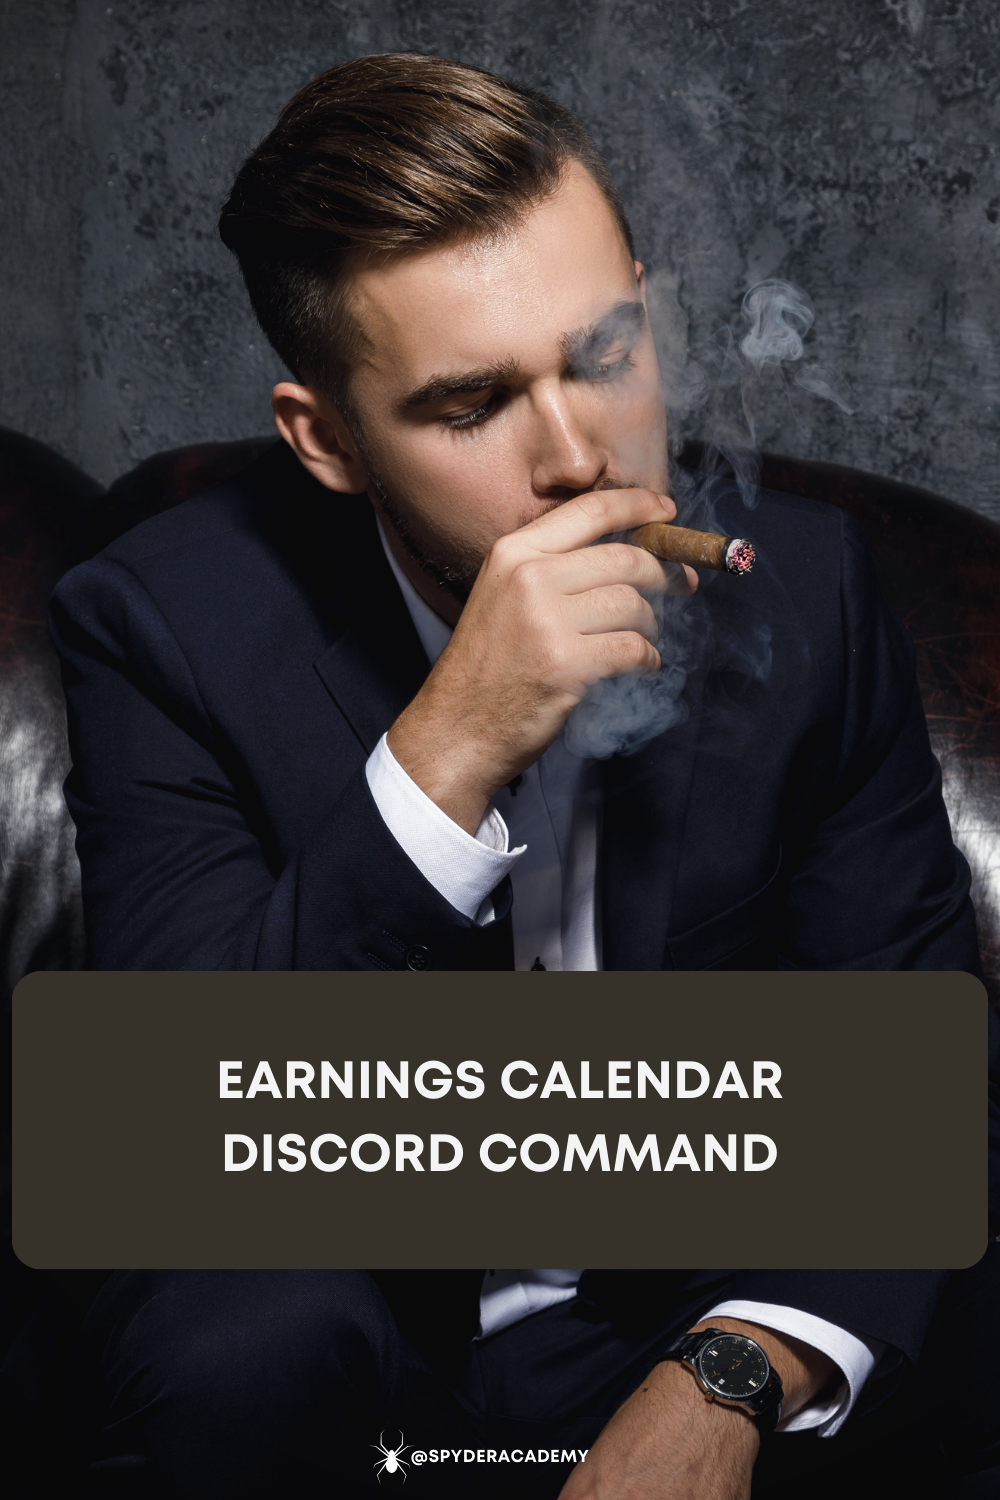
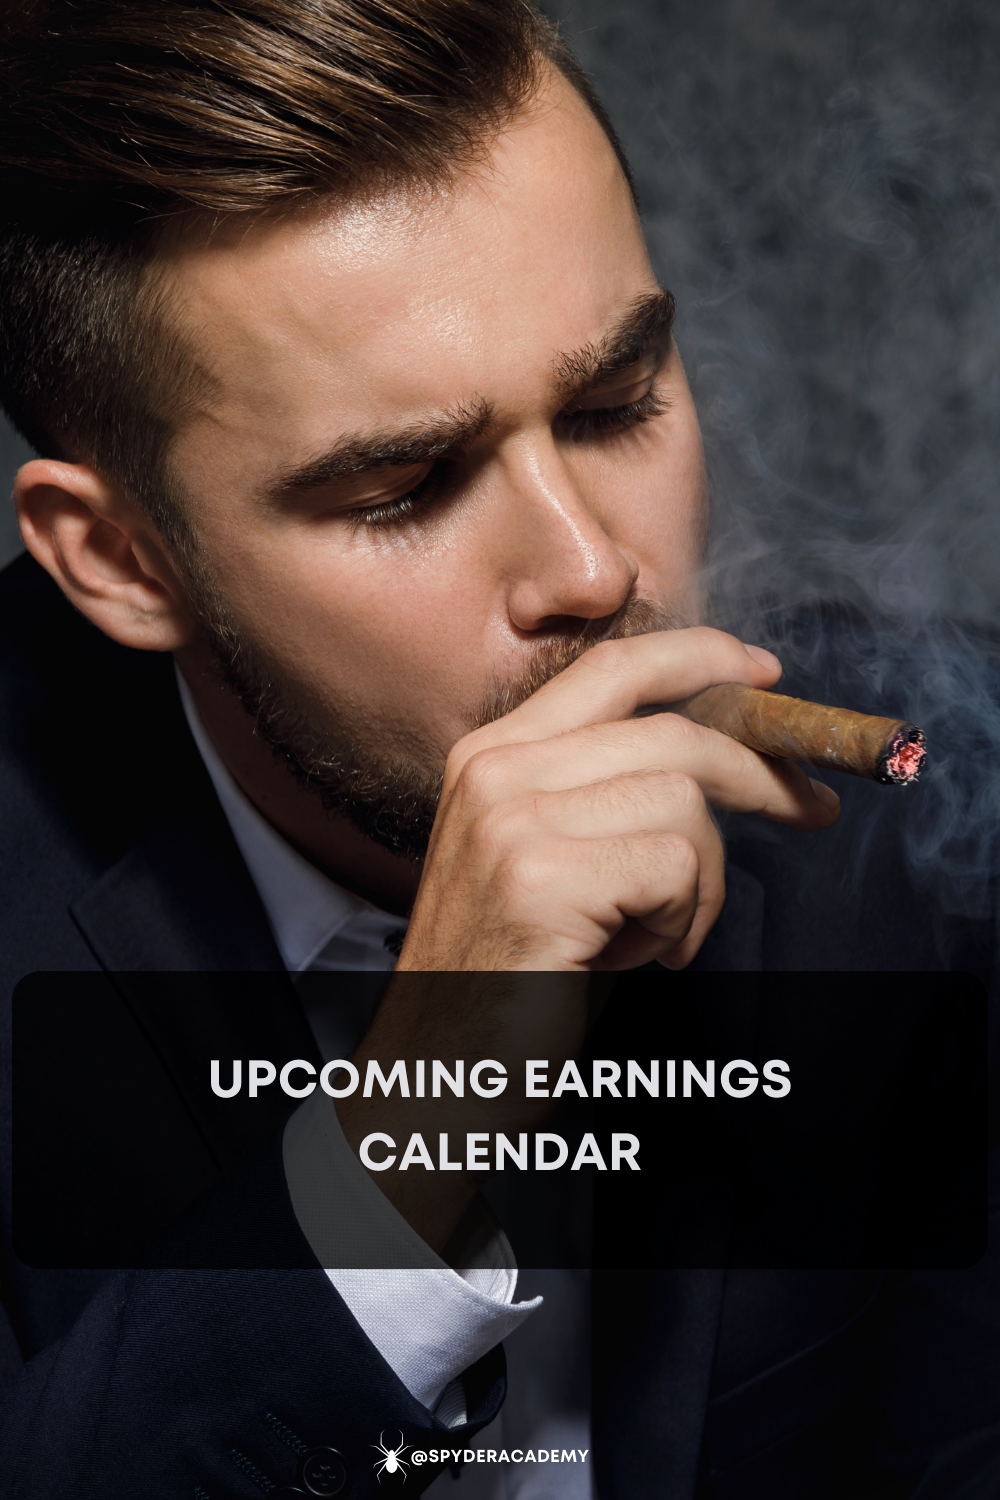
revamped tools landing page

diff --git a/layouts/_default/tools.html b/layouts/_default/tools.html
@@ -1,0 +1,104 @@
+{{ define "main" }}
+  <section class="section blog-list py-5">
+    <div class="container">
+      
+        
+      <div class="row justify-content-center pb-5">
+        <div class="col-12 col-xl-6">
+          {{ with .Title }}
+            <h1 class="fs-1 fw-bold text-center text-primary pb-3">{{ . }}</h1>
+          {{ end }}
+          {{ with .Params.description }}
+            <p class="text-black-61 text-center pb-3">{{ . }}</p>
+          {{ end }}
+        </div>
+      </div>
+
+      
+
+      <div class="row g-4 pb-5">
+        <h2>Free Tools</h2>
+        {{ range (.Paginate .RegularPages).Pages.ByDate }}
+            {{ if in .Params.tags "Web Tools" }}
+                <div class="col-12 col-md-6 col-lg-3">
+                  <a class="card shadow border-0 p-4 text-decoration-none h-100" style="border-radius: 15px;" href="{{ .Permalink }}">
+                    <div class="aspect-ratio-full">
+                          {{ with .Resources.GetMatch (printf "**/%s" "{cover.*}") }}
+                              {{ with .Resize "1000x" }}
+                                  <img class="" src="{{ .RelPermalink }}" alt="{{ .Title }}" width="{{ .Width }}" height="{{ .Height }}">
+                              {{ end }} 
+                          {{ end }}
+                    </div>
+                    <div class="card-body">
+                      <h5 class="card-title fw-semibold">{{ .Title }}</h5>
+                      {{ if eq .Section "education" }}<p class="card-text text-danger">By {{ .Param "author" | plainify }}</p>{{ end }}
+                      {{ if eq .Section "courses" }}<p class="card-text text-danger">{{ .Param "level" | plainify }}</p>{{ end }}
+                      <p class="card-text text-black-61">{{ .Summary }}</p>
+                    </div>
+                  </a>
+                </div>
+            {{ end }}
+          {{ end }}
+      </div>
+
+      <div class="row g-4 pb-5">
+        <h3>Trading View Indicators</h3>
+        {{ range (.Paginate .RegularPages).Pages.ByDate }}
+            {{ if in .Params.tags "TradingView" }}
+              <div class="col-12 col-md-6 col-lg-3">
+                <a class="card shadow border-0 p-4 text-decoration-none h-100" style="border-radius: 15px;" href="{{ .Permalink }}">
+                  <div class="aspect-ratio-full">
+                        {{ with .Resources.GetMatch (printf "**/%s" "{cover.*}") }}
+                            {{ with .Resize "1000x" }}
+                                <img class="" src="{{ .RelPermalink }}" alt="{{ .Title }}" width="{{ .Width }}" height="{{ .Height }}">
+                            {{ end }} 
+                        {{ end }}
+                  </div>
+                  <div class="card-body">
+                    <h5 class="card-title fw-semibold">{{ .Title }}</h5>
+                    {{ if eq .Section "education" }}<p class="card-text text-danger">By {{ .Param "author" | plainify }}</p>{{ end }}
+                    {{ if eq .Section "courses" }}<p class="card-text text-danger">{{ .Param "level" | plainify }}</p>{{ end }}
+                    <p class="card-text text-black-61">{{ .Summary }}</p>
+                  </div>
+                </a>
+              </div>
+            {{ end }}
+          {{ end }}
+      </div>
+
+      <div class="row g-4 pb-5">
+        <h3>Discord Tools</h3>
+        {{ range (.Paginate .RegularPages).Pages.ByDate }}
+            {{ if in .Params.tags "Discord" }}
+                <div class="col-12 col-md-6 col-lg-3">
+                  <a class="card shadow border-0 p-4 text-decoration-none h-100" style="border-radius: 15px;" href="{{ .Permalink }}">
+                    <div class="aspect-ratio-full">
+                          {{ with .Resources.GetMatch (printf "**/%s" "{cover.*}") }}
+                              {{ with .Resize "1000x" }}
+                                  <img class="" src="{{ .RelPermalink }}" alt="{{ .Title }}" width="{{ .Width }}" height="{{ .Height }}">
+                              {{ end }} 
+                          {{ end }}
+                    </div>
+                    <div class="card-body">
+                      <h5 class="card-title fw-semibold">{{ .Title }}</h5>
+                      {{ if eq .Section "education" }}<p class="card-text text-danger">By {{ .Param "author" | plainify }}</p>{{ end }}
+                      {{ if eq .Section "courses" }}<p class="card-text text-danger">{{ .Param "level" | plainify }}</p>{{ end }}
+                      <p class="card-text text-black-61">{{ .Summary }}</p>
+                    </div>
+                  </a>
+                </div>
+            {{ end }}
+          {{ end }}
+      </div>
+
+    
+    <div class="row pb-5">
+      <div class="col-12 d-flex justify-content-center">
+        <div class="blog-content fs-5 ">
+          {{ .Content }}
+        </div>
+      </div>
+    </div>
+    </div>
+  </section>
+{{ end }}

diff --git a/content/tools/options-profit-calculator/index.md b/content/tools/options-profit-calculator/index.md
@@ -1,10 +1,10 @@
 +++
 author = "CashMoneyTrades"
 title = "Options Profit Calculator"
-date = "2024-01-11T10:00:00"
+date = "2026-01-11T10:00:00"
 description = "Options Profits can be calculated using the formula: Profit = Current Stock Price - Strike Price - Options Premium.  Variations may occur based changes in Implied Volatility, Theta, and other Options Greeks."
 tags = [
-   "TradingView",
+   "Web Tools",
 ]
 draft = true
 +++

diff --git a/content/tools/_index.md b/content/tools/_index.md
@@ -1,7 +1,7 @@
 +++
 aliases = ["tools"]
-title = "Trading View Indicators and Discord Tools"
-description = "Enhance your trading with our custom build Trading View Indicators and Discord Tools!"
+title = "Spyder Academy Tools"
+description = "Enhance your trading with our custom built Tools, Trading View Indicators, and Discord Commands!"
 author = "Spyder Academy"
-layout = "courses"
+layout = "tools"
 +++

diff --git a/content/tools/chat-gpt/index.md b/content/tools/chat-gpt/index.md
@@ -4,7 +4,7 @@ title = "Revolutionize Your Trading with 'Stocks Helper' – The AI-Powered Cand
 date = "2024-01-15T10:00:00"
 description = "Discover how 'Stocks Helper', our latest OpenAI ChatGPT AI tool, transforms the way traders analyze candlestick charts, offering insightful, AI-driven market analysis to enhance trading strategies."
 tags = [
-   "TradingView",
+   "Web Tools",
 ]
 +++
 

diff --git a/content/tools/implied-volatility/index.md b/content/tools/implied-volatility/index.md
@@ -5,7 +5,7 @@ date = "2023-12-07T10:00:00"
 description = "Discover Spyder Academy's Implied Volatility (IV) command, a powerful tool designed to enhance your understanding of market positioning, especially in anticipation of earnings announcements."
 time = "1 min"
 tags = [
-   "TradingView",
+   "Web Tools",
 ]
 +++
 

diff --git a/content/tools/bonds-schedule/index.md b/content/tools/bonds-schedule/index.md
@@ -6,6 +6,7 @@ description = "Discover Spyder Academy's Bonds command, a powerful tool designed
 time = "1 min"
 tags = [
    "Discord",
+   "Web Tools",
 ]
 +++
 

diff --git a/content/tools/earnings-calendar/index.md b/content/tools/earnings-calendar/index.md
@@ -6,6 +6,7 @@ description = "Unlock the potential of the Spyder Academy Upcoming Earnings Cale
 time = "1 min"
 tags = [
    "Discord",
+   "Web Tools",
 ]
 +++
 
